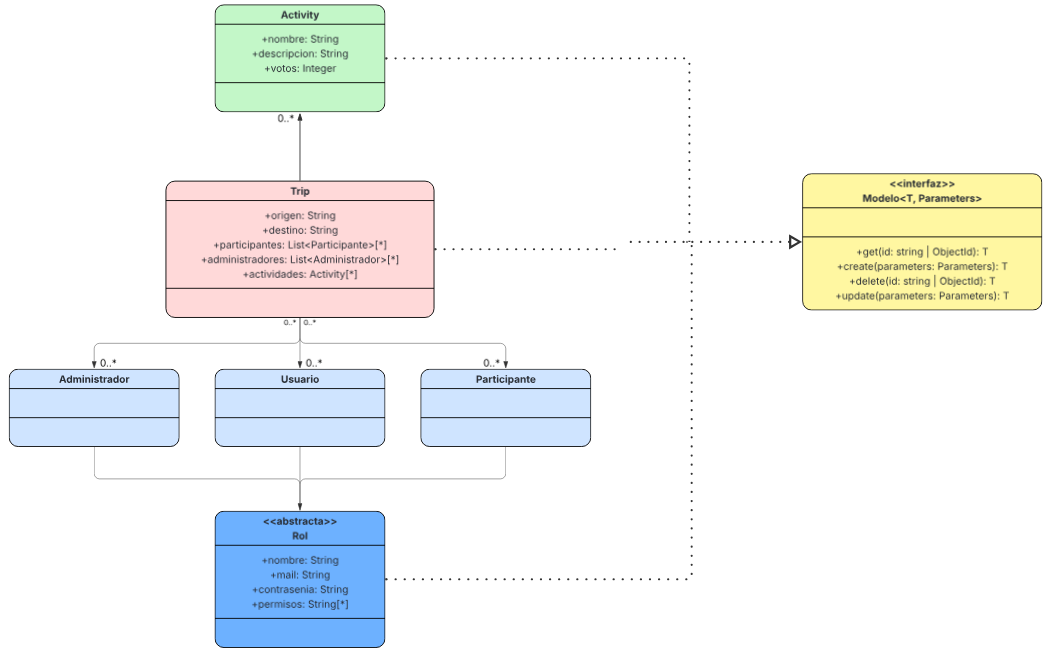
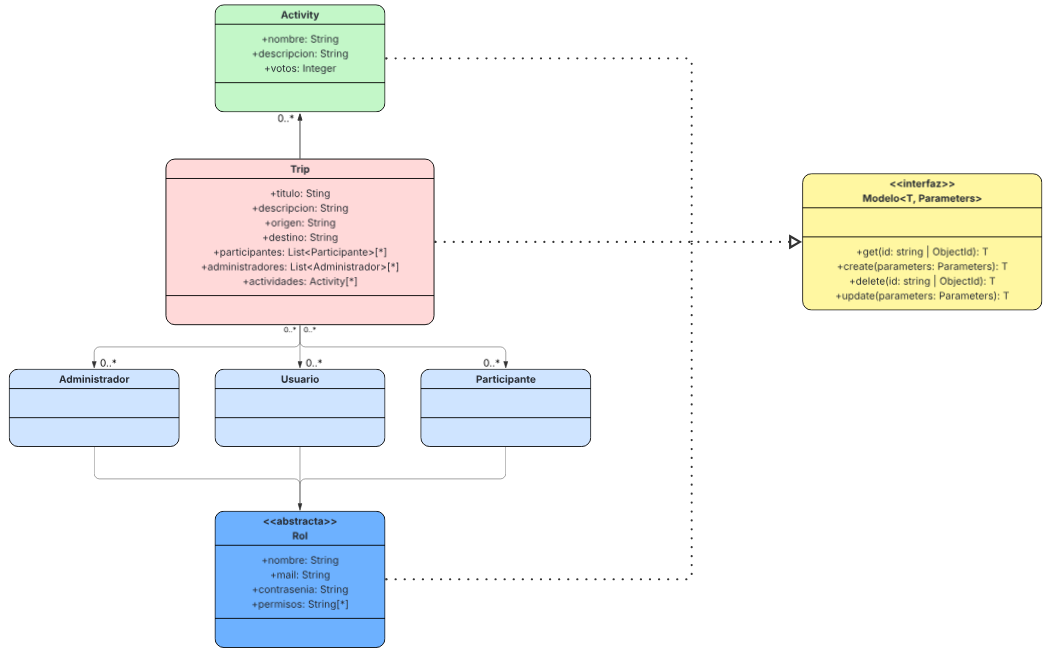
Modifique la entidad trip para alinearse con el diagrama
Modifique la interfaz y el schema de mongoose para que cumplan con el nuevo
disenio de la entidad Trip, ademas agregue una idea al ideas.txt y le arregle
algunas cosas que faltaban al diagrama y a los esquemas en el readme

Changed region(s): [[0.092, 0.2462, 0.4904, 0.5538], [0.6437, 0.3692, 0.6743, 0.4]]

diff --git a/backend/src/models/trip.model.ts b/backend/src/models/trip.model.ts
@@ -4,7 +4,16 @@ import type { Model } from "../types+interfaces/typesInterfaces.js"
 import type { ObjectId } from "mongoose"
 
 // clase que implementa la interfaz
-type ModelParams = {title?: string, description?: string, id?: string} // esta es la estructura que tienen que tener los parametros de la funcion crear dentro de la clase TripModel
+type ModelParams = {
+  id?: string,
+  titulo?: string,
+  descripcion?: string,
+  origen?: string,
+  destino?: string,
+  participantes?: string[],   
+  administradores?: string[],
+  actividades?: string[]
+} // esta es la estructura que tienen que tener los parametros de la funcion crear dentro de la clase TripModel
 
 class BaseTripModel implements Model<TripDocument, ModelParams> { 
 
@@ -13,10 +22,10 @@ class BaseTripModel implements Model<TripDocument, ModelParams> {
   }
 
   async createObject(parameters: ModelParams): Promise<TripDocument> { // TODO: `parameters: ModelParams` es algo temporal, despues podriamos hacer un type de parametros distinto para cada metodo
-    let { title, description } = parameters
+    let { titulo, descripcion } = parameters // TODO: Agregar los parametros que faltan
     const trip = new Trip({
-      title,
-      description
+      titulo,
+      descripcion
     });
 
     return trip; // placeholder

diff --git a/backend/src/models/entities/trip.ts b/backend/src/models/entities/trip.ts
@@ -3,9 +3,35 @@ import type { TripDocument } from "../../types+interfaces/typesInterfaces.js";
 
 const TripSchema = new Schema<TripDocument>(
     {
-        title: {type:String, required:true},
-        description: {type:String, required:true}
-    }
+        title: {type: String, required:true},
+        description: {type: String, required:true},
+        origen: {type: String, required: true},
+        destino: {type: String, required: true},
+        participantes: 
+            [
+                {
+                    type: Schema.Types.ObjectId, 
+                    ref: "Participante",
+                    default: ["Sin participantes"]
+                }
+            ],
+        administradores: 
+            [
+                {
+                    type: Schema.Types.ObjectId,
+                    ref: "Administrador",
+                    required: true
+                }
+            ],
+        actividades: 
+            [
+                {
+                    type: Schema.Types.ObjectId,
+                    ref: "Activity",
+                    default: ["Sin actividades planeadas"]
+                }
+            ]
+        }
 );
 
 export const Trip = mongoose.model<TripDocument>("Trip", TripSchema);

diff --git a/backend/src/types+interfaces/typesInterfaces.ts b/backend/src/types+interfaces/typesInterfaces.ts
@@ -1,5 +1,6 @@
 import { Document, Mongoose, type ObjectId } from "mongoose";
 import type { Request, Response } from "express";
+import type { Schema } from "inspector/promises";
 
 // ---- INICIO INTERFACES DE DOCUMENTOS ----
 
@@ -7,7 +8,7 @@ import type { Request, Response } from "express";
 export interface UserDocument extends Document {
   nombre: string;
   mail: string;
-  contrasenia: string
+  contrasenia: string;
 }
 
 // TODO: estructura de un documento de tipo Activity
@@ -16,6 +17,11 @@ export interface UserDocument extends Document {
 export interface TripDocument extends Document {
   title: string;
   description: string;
+  origen: string;
+  destino: string;
+  participantes: ObjectId[];
+  administradores: ObjectId[];
+  actividades: ObjectId[];
 }
 
 // ---- FIN INTERFACES DE DOCUMENTOS ----

diff --git a/backend/src/controllers/trip.controller.ts b/backend/src/controllers/trip.controller.ts
@@ -21,9 +21,9 @@ class LocalTripController implements Controller<TripDocument, void>{
 
     handleCreateObject = async (req: Request, res: Response) => {
         try {
-            const { title, description } = req.body;
+            const { titulo, descripcion } = req.body;
 
-            const trip = await TripModel.createObject({ title, description });
+            const trip = await TripModel.createObject({ titulo, descripcion }); // TODO: agregar los atributos que faltan
 
             return res.status(201).json(trip);
         } catch (error) {

diff --git a/backend/README.md b/backend/README.md
@@ -83,6 +83,8 @@ const Activity = new Schema({
 
 ```js
 const Trip = new Schema({
+    titulo: {type: String, required: true},
+    descripcion: {type: String, required: true},
     origen: {type: String, required: true},
     destino: {type: String, required: true},
     participantes: 
